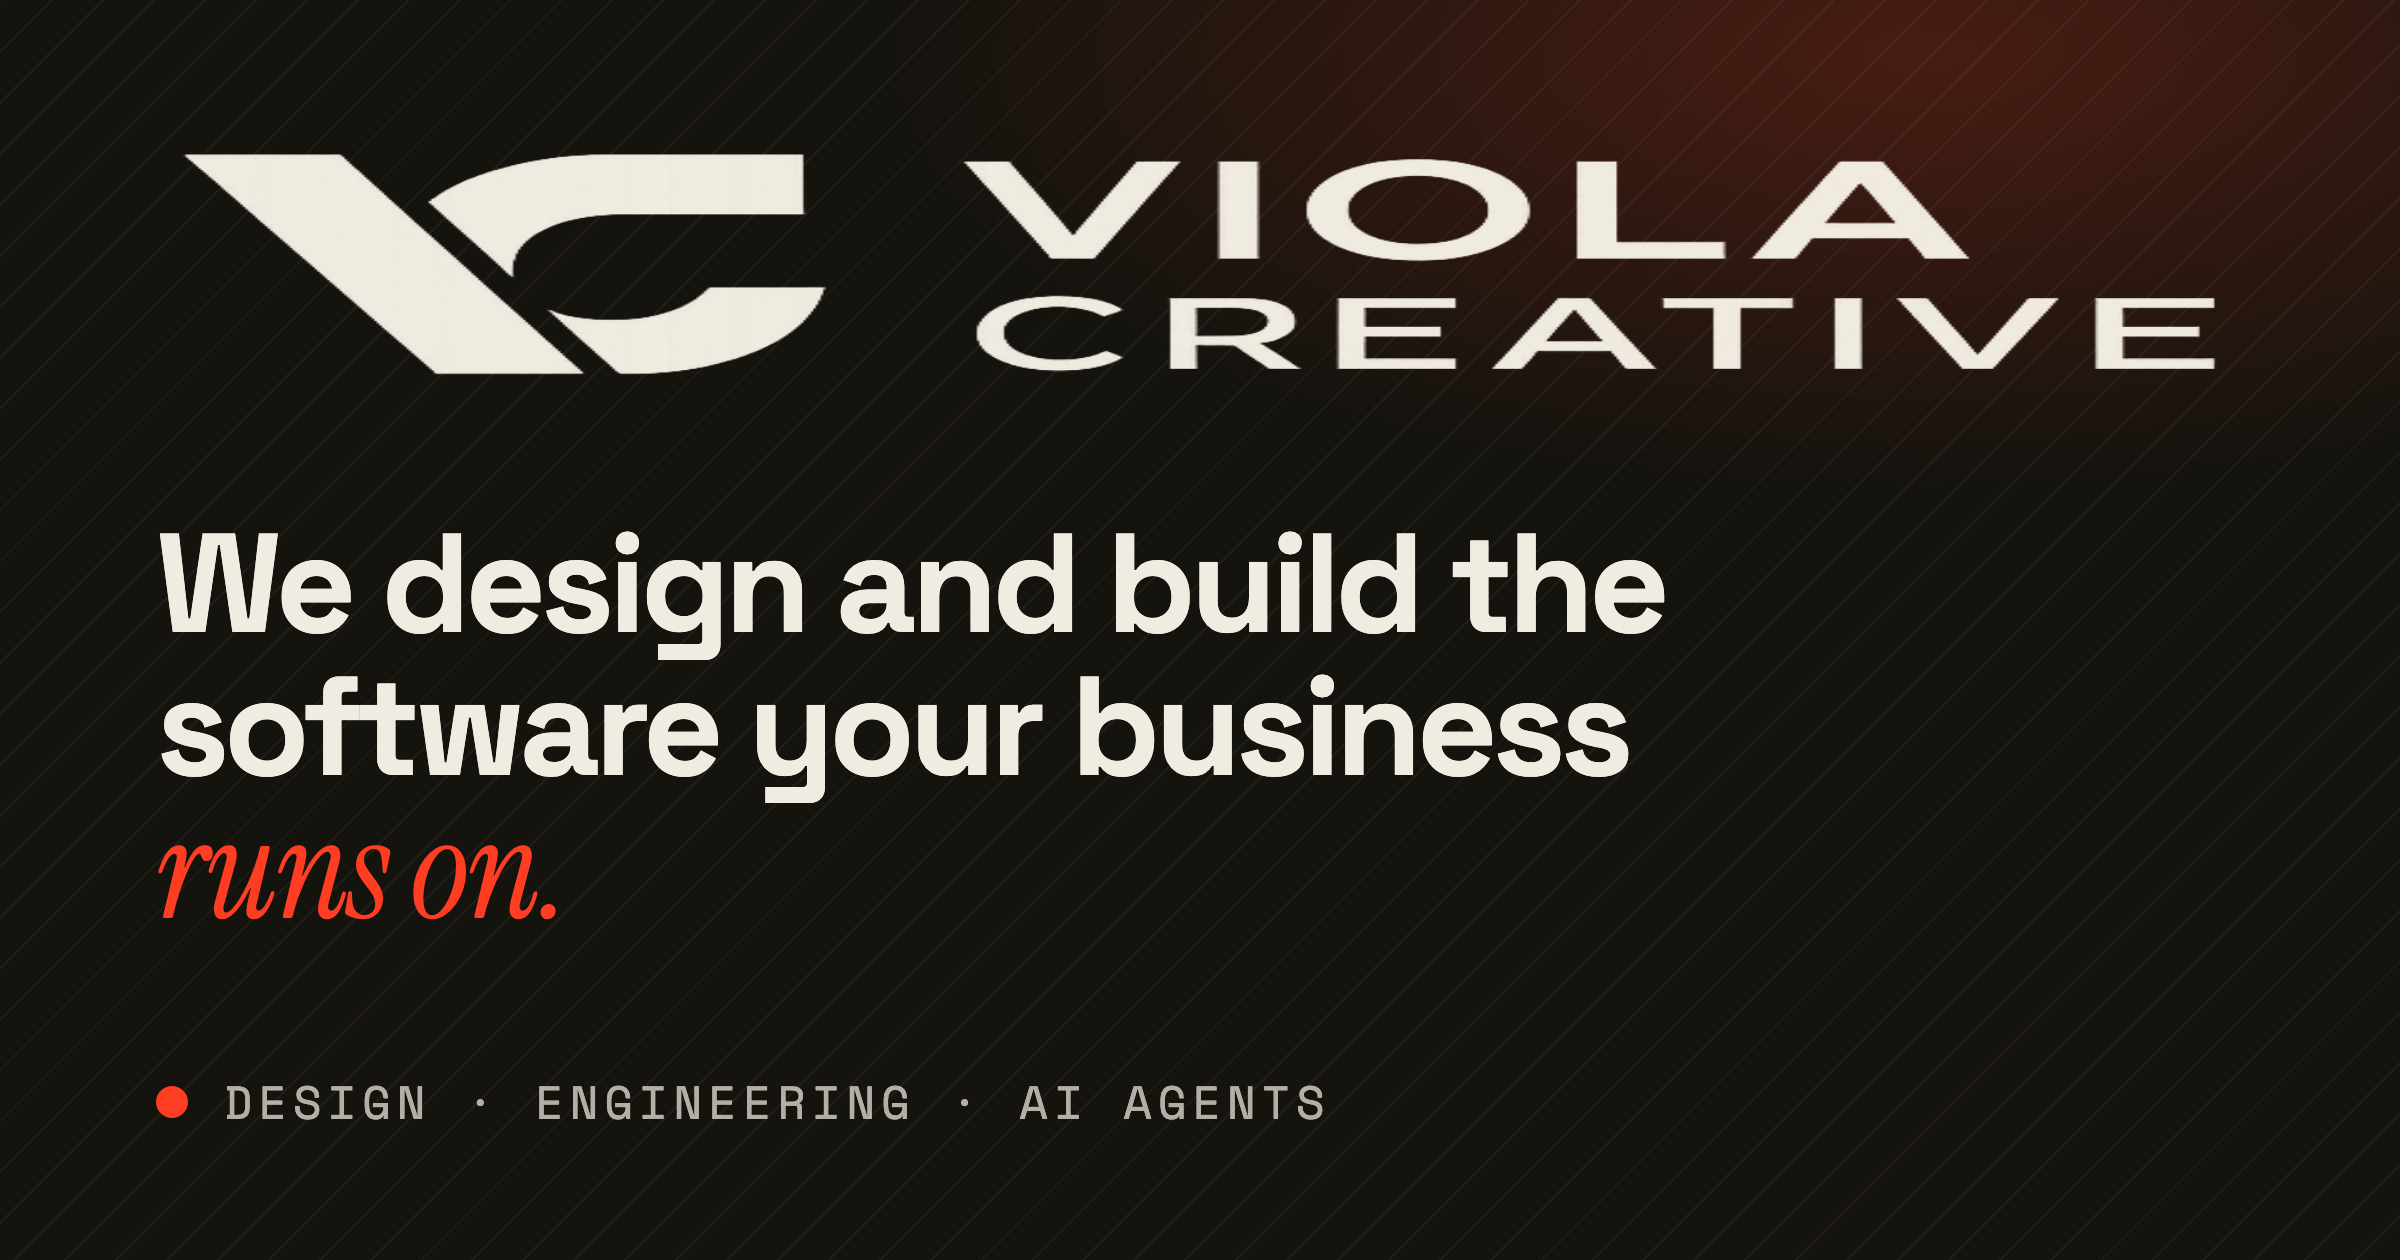
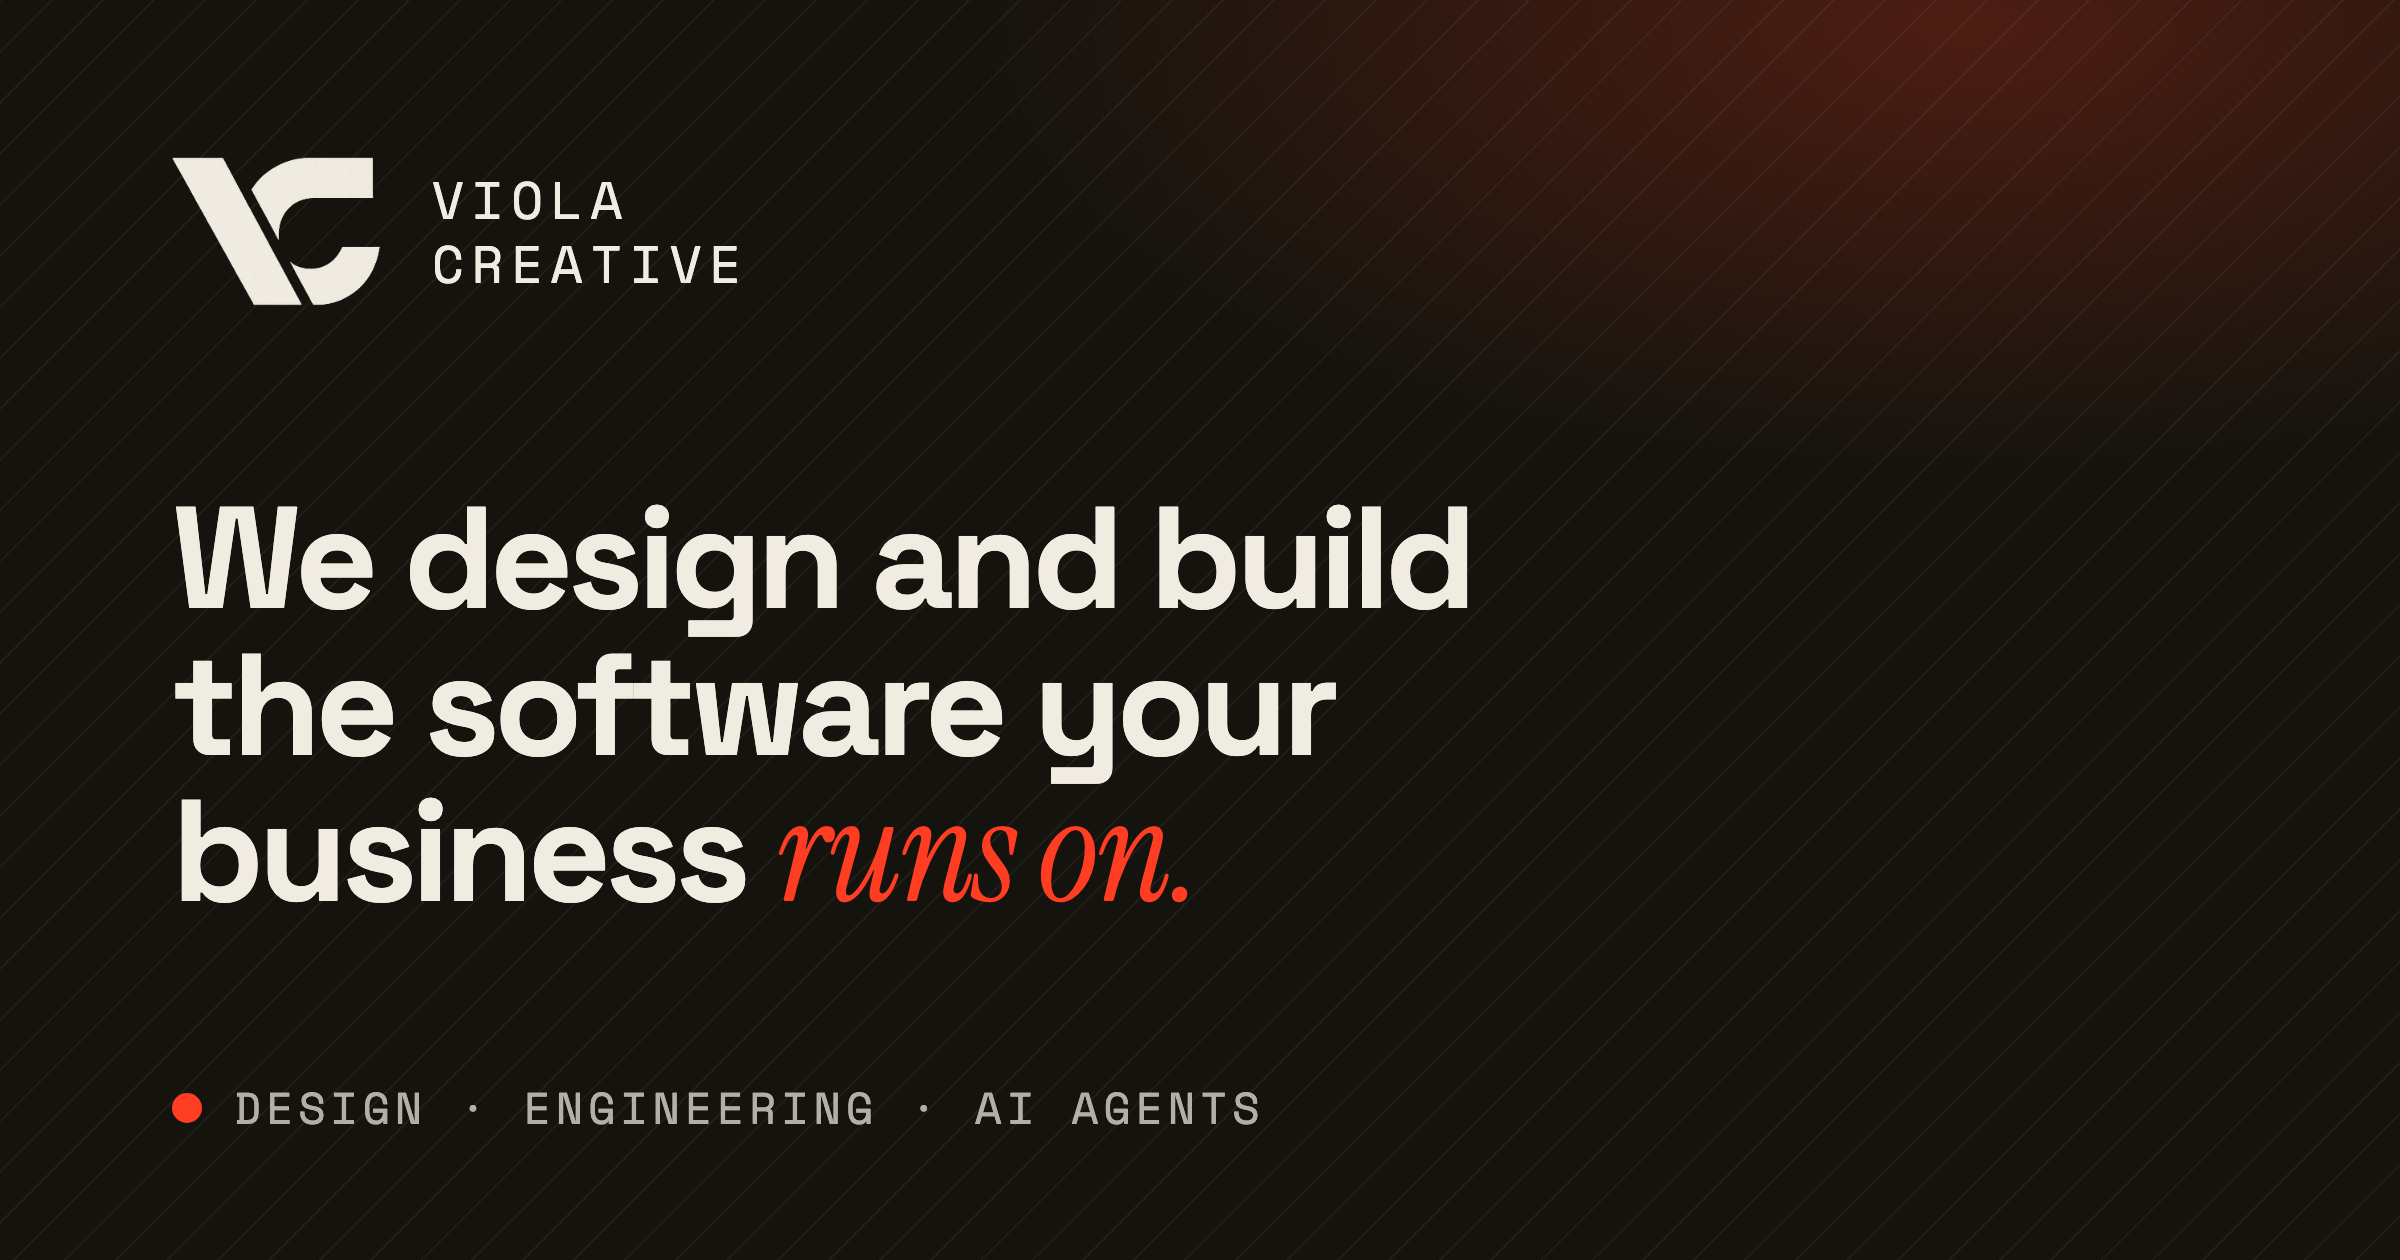
Rebuild the share card to survive clients that squash it
Some preview clients ignore the declared 1.91:1 and fill a squarer box with
a non-uniform scale. The old card led with the 842x207 wordmark — a 4:1
element — so an 18% horizontal squeeze visibly stretched the logo. Verified
by reproducing the reported render locally.

Leads with the square VC mark and a stacked VIOLA/CREATIVE lockup instead,
which barely registers the distortion, and keeps the widest element as
ordinary text. Checked at true 1.91:1, centre-cropped, and squashed.
Bumped to ?v=3 so the caches refetch.

diff --git a/index.html b/index.html
@@ -8,7 +8,7 @@
 <meta property="og:type" content="website">
 <meta property="og:title" content="Viola Creative — Design, engineering and AI agent workflows">
 <meta property="og:description" content="A design and engineering studio building websites, web apps, mobile apps and the AI agent workflows behind them.">
-<meta property="og:image" content="https://www.violacreative.com/assets/og.png?v=2">
+<meta property="og:image" content="https://www.violacreative.com/assets/og.png?v=3">
 <meta property="og:image:width" content="2400">
 <meta property="og:image:height" content="1260">
 <meta property="og:image:alt" content="Viola Creative — we design and build the software your business runs on.">
@@ -21,7 +21,7 @@
 <meta name="theme-color" content="#F1ECE2">
 <meta property="og:site_name" content="Viola Creative">
 <meta property="og:locale" content="en_US">
-<meta name="twitter:image" content="https://www.violacreative.com/assets/og.png?v=2">
+<meta name="twitter:image" content="https://www.violacreative.com/assets/og.png?v=3">
 <meta name="twitter:image:alt" content="Viola Creative — we design and build the software your business runs on.">
 <link rel="preconnect" href="https://fonts.googleapis.com">
 <link rel="preconnect" href="https://fonts.gstatic.com" crossorigin>
@@ -121,7 +121,7 @@
         "width": 512,
         "height": 512
       },
-      "image": "https://www.violacreative.com/assets/og.png?v=2",
+      "image": "https://www.violacreative.com/assets/og.png?v=3",
       "contactPoint": [
         {
           "@type": "ContactPoint",

diff --git a/privacy.html b/privacy.html
@@ -14,7 +14,7 @@
 <meta property="og:description" content="What Viola Creative collects through this website, why, and how long it is kept.">
 <meta property="og:url" content="https://www.violacreative.com/privacy">
 <meta property="og:site_name" content="Viola Creative">
-<meta property="og:image" content="https://www.violacreative.com/assets/og.png?v=2">
+<meta property="og:image" content="https://www.violacreative.com/assets/og.png?v=3">
 <script type="application/ld+json">{"@context":"https://schema.org","@type":"BreadcrumbList","itemListElement":[{"@type":"ListItem","position":1,"name":"Home","item":"https://www.violacreative.com/"},{"@type":"ListItem","position":2,"name":"Privacy"}]}</script>
 <link rel="icon" href="/favicon.ico" sizes="32x32">
 <link rel="apple-touch-icon" href="/apple-touch-icon.png">

diff --git a/README.md b/README.md
@@ -66,7 +66,7 @@ them (`data-reveal`, `data-stack-card`, `data-svc-item`, `data-hub-chip`,
 | Asset | Source |
 |---|---|
 | `logo-dark.webp`, `logo-light.webp` | Viola Creative wordmark, supplied with the design as PNG |
-| `og.png` | Generated for this build: the wordmark and hero line on the brand's near-black `#15130E` ground. Rendered at 2400x1260 (2x of the 1.91:1 spec) and composed with no small type, so it stays legible when an unfurl shrinks it to ~340px wide. Regenerate by editing the template and re-capturing at `deviceScaleFactor: 2`. |
+| `og.png` | Generated for this build: the VC mark and hero line on the brand's near-black `#15130E` ground. Rendered at 2400x1260 (2x of the 1.91:1 spec) and composed with no small type, so it stays legible when an unfurl shrinks it to ~340px wide. Regenerate by editing the template and re-capturing at `deviceScaleFactor: 2`. |
 | `anime.min.js` | [anime.js 3.2.1](https://github.com/juliangarnier/anime), MIT. Vendored deliberately — the design file hotlinked jsDelivr, and a third-party CDN is an availability and privacy dependency a marketing site does not need. Pinned; re-vendor by hand to change the version. |
 | `assets/work/*` | Headless captures of each project's live site, cookie banners and modals dismissed first, cropped 2:1 |
 | `assets/work/m/*` | The same sites captured at 430x932 with a mobile UA, cropped to the phone card's 0.63 aspect |
